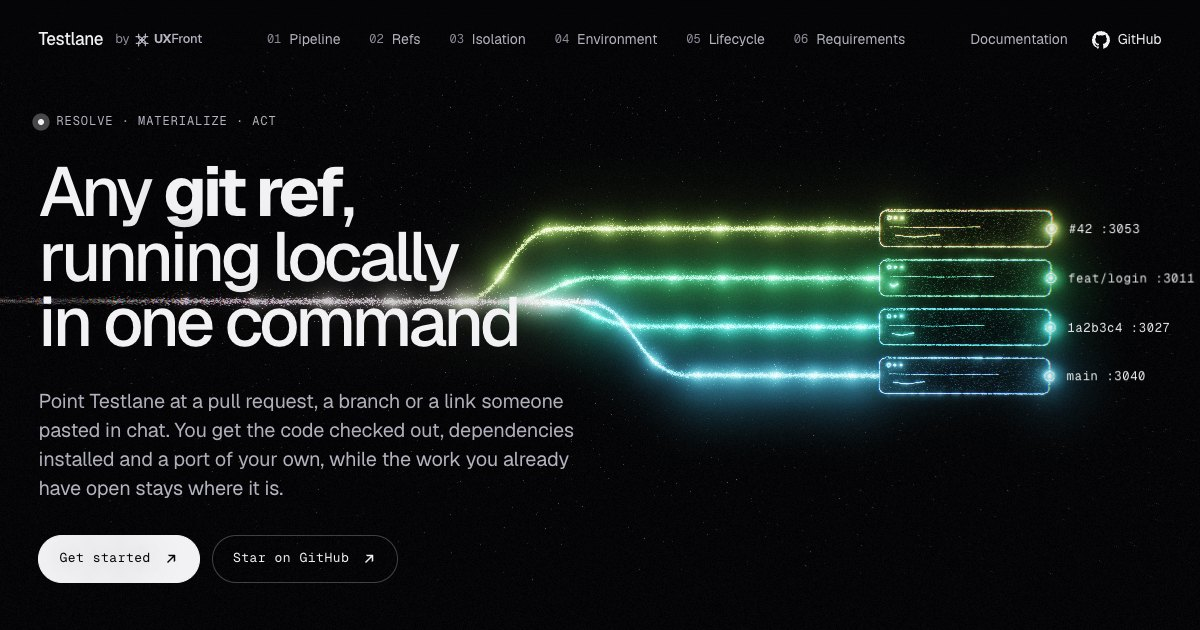
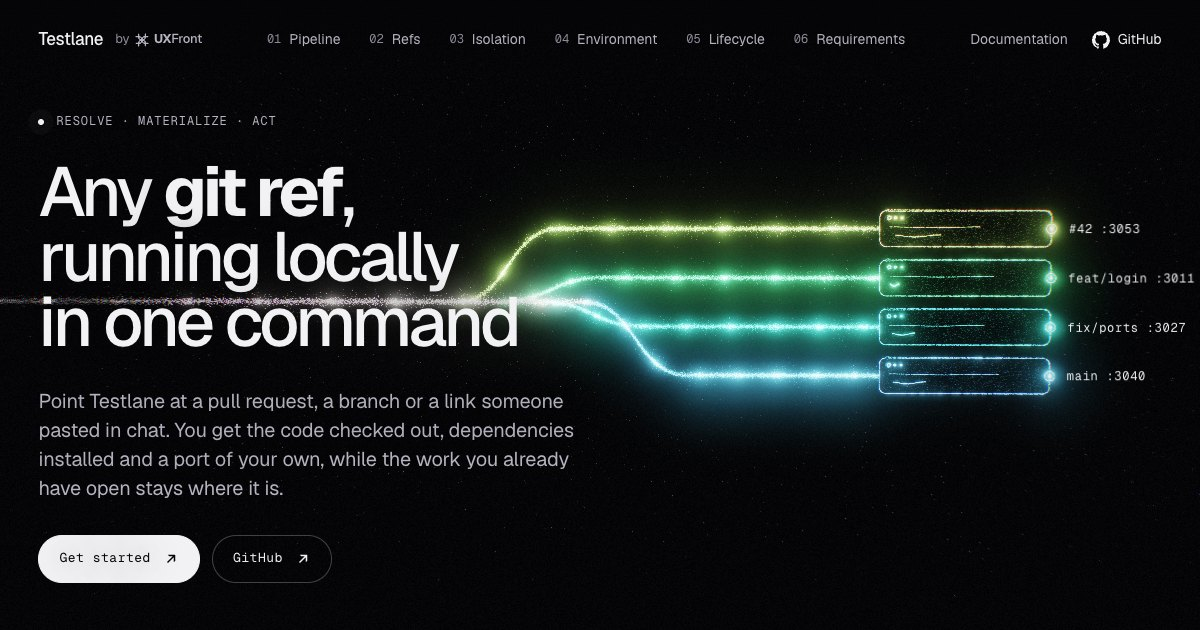
fix(docs): show refs the CLI parses as their comments say
The homepage's refs sample called a short SHA a commit, but testlane
only reads a full 40-character SHA as one and takes 1a2b3c4 for a branch.
The samples now live in app/data/samples.ts, and test/samples.test.ts
runs every ref through the CLI's parseRef and keeps each code line to 30
characters, so the panels don't scroll on a 320px phone.

Held lanes formations kept shrinking while they morphed in, since hold()
fixes local but not approach: lane progress now reads local first. The
Lifecycle chapter dims its lanes instead of brightening them, and the
Requirements chapter puts the stream left of its copy. The README lists
the third Docus override and the sitemap route, and package.json names
the Node 22.13 floor that node:sqlite needs.

diff --git a/apps/docs/app/pages/index.vue b/apps/docs/app/pages/index.vue
@@ -2,9 +2,10 @@
 import { hold } from "@uxfront/scene";
 import { corridor, outline } from "@uxfront/scene/formations";
 
+import { WORKSPACES as workspaces, configCode, refsCode } from "~/data/samples";
 import { DOCS_URL, GITHUB_URL, UXFRONT_URL } from "~/data/site";
 import { lanes } from "~/lib/formations/lanes";
-import { spotlight } from "~/lib/formations/spotlight";
+import { dimmed, spotlight } from "~/lib/formations/spotlight";
 
 useUxHead({
 	title: "Testlane - Run any pull request or branch locally, in one command",
@@ -81,7 +82,8 @@ const isolation = spotlight(
 	{ dim: 0.06 },
 );
 const environment = outline({ key: "environment", label: "Environment" });
-const lifecycle = spotlight(
+// The six details below sit over the lanes: keep them faint.
+const lifecycle = dimmed(
 	hold(
 		lanes({
 			key: "lifecycle",
@@ -98,10 +100,7 @@ const lifecycle = spotlight(
 		}),
 		1,
 	),
-	-20,
-	20,
-	// The six details below sit over the lanes: keep them faint.
-	{ dim: 0.35, soft: 0.4 },
+	0.35,
 );
 const requirements = spotlight(
 	hold(
@@ -113,7 +112,8 @@ const requirements = spotlight(
 					eye: [-3.4, 0.8, 7],
 					target: [-3.6, 0, 0],
 					span: [2.6, 1],
-					shift: [0.3, 0],
+					// Left of the copy, which this chapter puts on the right.
+					shift: [-0.3, 0],
 				},
 				mobile: { eye: [-3, 0.8, 8], target: [-3.2, 0, 0], span: [2.4, 1] },
 			},
@@ -176,14 +176,6 @@ const nav = Object.values(chapters).map((chapter) => ({
 	index: chapter.index,
 }));
 
-// The four refs the lanes stand for, and the port each workspace gets.
-const workspaces = [
-	{ ref: "#42", port: "3053" },
-	{ ref: "feat/login", port: "3011" },
-	{ ref: "1a2b3c4", port: "3027" },
-	{ ref: "main", port: "3040" },
-];
-
 const steps = [
 	{
 		title: "Resolve the ref",
@@ -209,12 +201,6 @@ const refKinds = [
 		text: "A GitHub link already says which project and which pull request. Paste it in and that is the entire command.",
 	},
 ];
-
-const refsCode = `testlane my-project 42            # pull request
-testlane my-project feat/login    # branch
-testlane my-project 1a2b3c4       # commit
-testlane my-project - shell       # last used ref
-testlane …/pull/42 code           # straight from a URL`;
 
 const isolated = [
 	{
@@ -247,17 +233,6 @@ const placeholders = [
 		text: "A dry run prints the exact environment and the exact command, then stops.",
 	},
 ];
-
-const configCode = `ports = 2
-
-[setup]
-run = "pnpm install --frozen-lockfile"
-cache_key = ["pnpm-lock.yaml"]
-seed_files = [".env.local"]
-
-[env]
-PORT = "{port}"
-API_PORT = "{port+1}"`;
 
 const lifespan = [
 	{
@@ -364,7 +339,7 @@ const family = [
 				<br />
 				<span class="hero-actions">
 					<UxPillLink variant="filled" :href="DOCS_URL" label="Get started" />
-					<UxPillLink :href="GITHUB_URL" label="Star on GitHub" />
+					<UxPillLink :href="GITHUB_URL" label="GitHub" />
 				</span>
 			</template>
 		</UxHero>
@@ -384,7 +359,7 @@ const family = [
 			</template>
 			<UxTraits :items="refKinds" />
 			<template #aside>
-				<UxCode title="Six ways to name the same thing" :code="refsCode" />
+				<UxCode title="Five ways to name a ref" :code="refsCode" />
 			</template>
 		</UxSplit>
 

diff --git a/apps/docs/app/data/samples.ts b/apps/docs/app/data/samples.ts
@@ -1,0 +1,64 @@
+/**
+ * The refs and code samples the homepage shows, kept here so
+ * `test/samples.test.ts` can check them. Each ref goes through the CLI's own
+ * parser (`parseRef` in src/core/resolve.ts), since a sample that reads as a
+ * commit but parses as a branch would send a reader who copies it to the wrong
+ * place. And each line has to fit a phone, where the code panel can't scroll
+ * with the keyboard in every browser.
+ */
+export type RefKind = "pr" | "branch" | "commit" | "path" | "last";
+
+export interface RefSample {
+	/** What the reader passes to `testlane`. */
+	ref: string;
+	/** How the sample shows it: the ref itself, or its start and "…". */
+	shown?: string;
+	/** What `parseRef` makes of it. */
+	kind: RefKind;
+	/** Anything after the ref, like a verb. */
+	rest?: string;
+	/** The comment above the command. */
+	comment: string;
+}
+
+/** The Refs chapter's code sample, one comment and command per ref. */
+export const REF_SAMPLES: RefSample[] = [
+	{ ref: "42", kind: "pr", comment: "A pull request" },
+	{ ref: "feat/login", kind: "branch", comment: "A branch" },
+	{
+		ref: "9fceb02d0ae598e95dc970b74767f19372d61af8",
+		shown: "9fceb02…",
+		kind: "commit",
+		comment: "A commit, all 40 characters",
+	},
+	{ ref: "-", kind: "last", rest: "shell", comment: "The ref you used last" },
+];
+
+/** The four workspaces the hero and the Isolation chapter label, top to bottom. */
+export const WORKSPACES: { ref: string; kind: RefKind; port: string }[] = [
+	{ ref: "#42", kind: "pr", port: "3053" },
+	{ ref: "feat/login", kind: "branch", port: "3011" },
+	{ ref: "fix/ports", kind: "branch", port: "3027" },
+	{ ref: "main", kind: "branch", port: "3040" },
+];
+
+/** `REF_SAMPLES` as the sample shows them, plus a link, which names the project too. */
+export const refsCode = [
+	...REF_SAMPLES.map(
+		({ ref, shown, rest, comment }) =>
+			`# ${comment}\ntestlane app ${[shown ?? ref, rest].filter(Boolean).join(" ")}`,
+	),
+	"# Straight from a link\ntestlane …/pull/42 code",
+].join("\n");
+
+/** The Environment chapter's project file. */
+export const configCode = `ports = 2
+
+[setup]
+run = "pnpm install"
+cache_key = ["pnpm-lock.yaml"]
+seed_files = [".env.local"]
+
+[env]
+PORT = "{port}"
+API_PORT = "{port+1}"`;

diff --git a/apps/docs/test/lanes.test.ts b/apps/docs/test/lanes.test.ts
@@ -1,0 +1,48 @@
+import { hold } from "@uxfront/scene";
+import { describe, expect, it } from "vitest";
+import { lanes } from "../app/lib/formations/lanes";
+import {
+	LANES,
+	LANE_APPROACH,
+	laneProgress,
+} from "../app/lib/formations/lanes.geometry";
+
+const approaches = [0, 0.25, 0.5, 0.75, 1];
+
+describe("the lanes formation", () => {
+	it("is its own formation, keyed lanes, with an anchor per workspace", () => {
+		const formation = lanes({ label: "Testlane" });
+		expect(formation.key).toBe("lanes");
+		expect(formation.anchors.map((anchor) => anchor.id)).toEqual(
+			Array.from({ length: LANES }, (_, i) => `lanes:${i}`),
+		);
+	});
+
+	it("grows its lanes while the chapter scrolls in, then while it's read", () => {
+		expect(approaches.map((a) => laneProgress(a, 0))).toEqual(
+			approaches.map((a) => a * LANE_APPROACH),
+		);
+		expect(laneProgress(1, 0)).toBe(LANE_APPROACH);
+		expect(laneProgress(1, 1)).toBe(1);
+	});
+
+	it("keeps a held formation fully grown while it morphs in", () => {
+		for (const approach of approaches) {
+			expect(laneProgress(approach, 1), `approach ${approach}`).toBe(1);
+		}
+	});
+
+	it("shows every workspace's label while a held formation morphs in", () => {
+		const held = hold(lanes({ key: "hero", label: "Testlane" }), 1);
+		const out: [number, number, number] = [0, 0, 0];
+		for (const anchor of held.anchors) {
+			for (const approach of approaches) {
+				const shown = anchor.place(
+					{ stage: 0, local: 1, approach, presence: 1, time: 0 },
+					out,
+				);
+				expect(shown, `${anchor.id} at approach ${approach}`).toBe(1);
+			}
+		}
+	});
+});

diff --git a/apps/docs/test/samples.test.ts b/apps/docs/test/samples.test.ts
@@ -1,0 +1,37 @@
+import { describe, expect, it } from "vitest";
+import { parseRef } from "../../../src/core/resolve";
+import {
+	REF_SAMPLES,
+	WORKSPACES,
+	configCode,
+	refsCode,
+} from "../app/data/samples";
+
+describe("the homepage's samples", () => {
+	it("parses every sample the way its comment says", () => {
+		for (const { ref, kind } of REF_SAMPLES) {
+			expect(parseRef(ref).kind, ref).toBe(kind);
+		}
+	});
+
+	it("shows each sample as itself, or as its start and an ellipsis", () => {
+		for (const { ref, shown } of REF_SAMPLES) {
+			if (shown === undefined) continue;
+			expect(shown.endsWith("…"), shown).toBe(true);
+			expect(ref.startsWith(shown.slice(0, -1)), shown).toBe(true);
+		}
+	});
+
+	it("labels the workspaces with refs that parse as what they stand for", () => {
+		for (const { ref, kind } of WORKSPACES) {
+			expect(parseRef(ref).kind, ref).toBe(kind);
+		}
+	});
+
+	it("fits every line of the code samples on a 320px phone", () => {
+		// UxCode's panel holds about 30 characters of Geist Mono at that width.
+		for (const line of [...refsCode.split("\n"), ...configCode.split("\n")]) {
+			expect(line.length, line).toBeLessThanOrEqual(30);
+		}
+	});
+});

diff --git a/apps/docs/app/lib/formations/lanes.geometry.ts b/apps/docs/app/lib/formations/lanes.geometry.ts
@@ -40,9 +40,15 @@ export const LANE_COLORS: Vec3[] = [
 /** Share of the lanes' growth that happens while the chapter scrolls in. */
 export const LANE_APPROACH = 0.35;
 
-/** Lane progress: starts with the morph into the formation, not once it's held. */
+/**
+ * Lane progress: starts with the morph into the formation, not once it's held.
+ * It reads `local` first, since `hold()` fixes `local` but not `approach`: a
+ * held formation would otherwise shrink its lanes while it morphs in. Without
+ * `hold()`, `local` is 0 until `approach` reaches 1, so the two meet at
+ * `LANE_APPROACH`.
+ */
 export const laneProgress = (approach: number, local: number) =>
-	approach < 1 ? approach * LANE_APPROACH : lerp(LANE_APPROACH, 1, local);
+	local > 0 ? lerp(LANE_APPROACH, 1, local) : approach * LANE_APPROACH;
 
 /** Lanes branch off one after another as the chapter is read: 0 → 1 each. */
 export const laneReach = (index: number, progress: number) =>

diff --git a/apps/docs/app/lib/formations/lanes.shader.ts b/apps/docs/app/lib/formations/lanes.shader.ts
@@ -29,10 +29,11 @@ const float $BOX_X1 = ${f(BOX_X1)};
 const float $BOX_HH = ${f(BOX_HH)};
 const vec3 $COLORS[4] = ${glslArray("vec3", LANE_COLORS.map(glslVec))};
 
-// Lanes start growing as the chapter scrolls in (see laneProgress).
+// Lanes start growing as the chapter scrolls in, and a held formation keeps
+// its progress while it morphs in (see laneProgress).
 float $progress(Frame f) {
-  if (f.approach < 1.0) return f.approach * ${f(LANE_APPROACH)};
-  return mix(${f(LANE_APPROACH)}, 1.0, f.local);
+  if (f.local > 0.0) return mix(${f(LANE_APPROACH)}, 1.0, f.local);
+  return f.approach * ${f(LANE_APPROACH)};
 }
 
 float $branchX(int i) { return $BRANCH_X0 + float(i) * $BRANCH_DX; }

diff --git a/apps/docs/app/lib/formations/spotlight.ts b/apps/docs/app/lib/formations/spotlight.ts
@@ -24,3 +24,17 @@ export function spotlight(
   return P;`,
 	);
 }
+
+/**
+ * Dims the whole formation to `factor` of its brightness, for a chapter whose
+ * copy sits over it.
+ */
+export function dimmed(formation: Formation, factor: number): Formation {
+	return wrapMain(
+		formation,
+		"undimmed",
+		`  Particle P = $undimmed(id, sel, f);
+  P.col *= ${glslFloat(factor)};
+  return P;`,
+	);
+}

diff --git a/apps/docs/README.md b/apps/docs/README.md
@@ -9,7 +9,7 @@ Run them from the repository root, since the site shares its lockfile with the w
 ```bash
 pnpm install --filter @uxfront/docs
 pnpm --filter @uxfront/docs dev         # dev server on http://localhost:3000
-pnpm --filter @uxfront/docs test        # the redirect map against content/docs
+pnpm --filter @uxfront/docs test        # the redirects, the homepage's samples and the lanes formation
 pnpm --filter @uxfront/docs build       # nuxt build → .output, every page prerendered into .output/public
 pnpm --filter @uxfront/docs lighthouse  # Lighthouse CI against .output/public, fails below 0.95 in any category
 ```
@@ -45,6 +45,8 @@ Everything else comes from the homepage kit:
 - [`@uxfront/ui`](https://www.npmjs.com/package/@uxfront/ui): the Vue components (`UxSite`, `UxHero`, `UxChapter`, `UxSplit`, `UxFinale`, the HUD, the header and the labels pinned to the formations) and the design tokens.
 - [`@uxfront/scene`](https://www.npmjs.com/package/@uxfront/scene): the WebGL particle scene and the `outline` and `corridor` formations. Without WebGL2, the page shows the scene's fallback with all of its copy.
 
+The refs, the project file and the workspace labels the page shows live in `app/data/samples.ts`. `test/samples.test.ts` parses every ref with the CLI's own `parseRef`, so a sample can't promise what `testlane` doesn't do, like a short SHA read as a commit. It also keeps each line of the code samples to 30 characters, which fit the code panel on a 320px phone.
+
 `public/og.jpg` is a 1200 × 630 capture of the hero, with the HUD and the scroll cue hidden. Capture it again when the hero changes. The favicons in `public/` draw the same lanes.
 
 ## The docs
@@ -59,16 +61,17 @@ How it shares the app with the homepage:
 - `app/app.config.ts` sets the theme colours and the GitHub, "Edit this page" and "Report an issue" links, with `rootDir: "apps/docs"`, since the docs don't live at the repository root.
 - Docus reads the site URL from `NUXT_SITE_URL`, which `nuxt.config.ts` defaults to the production origin.
 - Docus's MCP server is off (`mcp.enabled` in `nuxt.config.ts`), and so is its AI assistant, which only starts with an `AI_GATEWAY_API_KEY`.
+- `server/routes/sitemap.xml.ts` replaces Docus's `/sitemap.xml` route, as on unframework.dev. Docus's lists a landing page from `content/index.md`, which this site doesn't have, so it left the homepage out. This one lists `/` first, then the docs pages.
 - In content, link to the generated files (`/llms.txt`, `/raw/…`) with `{external}`. Otherwise the router handles the click and shows the 404 page.
 
 ### Keeping it accessible
 
-Every page passes axe's contrast rule in light and dark mode, and the homepage and the docs pages we've measured score 1 in Lighthouse accessibility. Docus doesn't as it ships, so the site changes four things:
+Every page passes axe's contrast rule in light and dark mode, and the homepage and the docs pages we've measured score 1 in Lighthouse accessibility. Docus doesn't as it ships, so the site changes these:
 
 - **Colours.** `app/app.css` darkens Nuxt UI's light-mode primary to the 700 shade, since green's default 500 fails AA contrast on white. `ui.prose.callout` in `app/app.config.ts` draws the callouts' text, links and inline code (`::note`, `::tip`, `::warning`, `::caution`) in the 800 shade in light mode, since Nuxt UI's 600 fails on their tinted background, `::warning`'s yellow worst at 2.75:1.
 - **Links.** `ui.prose.a` underlines links at rest, so a link in a sentence doesn't stand out by colour alone.
 - **Code.** `nuxt.config.ts` highlights code with the high-contrast GitHub themes, since the default themes put comments below 4.5:1.
-- **Two Docus components.** `app/components/docs/DocsPageHeaderLinks.vue` names the button that opens the page menu, which only shows an arrow, and leaves out the menu's MCP items. `app/pages/[[lang]]/[...slug].vue` makes the separator above "Edit this page" decorative, since a separator can't hold links. Both are copies of Docus 5.13.0's, so keep them in step when you upgrade it.
+- **Three Docus components.** `app/components/docs/DocsPageHeaderLinks.vue` names the button that opens the page menu, which only shows an arrow, and leaves out the menu's MCP items. `app/components/IconMenuToggle.vue` names the button that opens the header's menu on phones, and says whether it's open. `app/pages/[[lang]]/[...slug].vue` makes the separator above "Edit this page" decorative, since a separator can't hold links. The first and last are copies of Docus 5.13.0's, and the toggle draws the same lines, so keep all three in step when you upgrade Docus.
 
 ### Old URLs
 
@@ -83,3 +86,5 @@ The site runs as a Nitro server (`node .output/server/index.mjs`), which serves 
 - `vercel.json`, for Vercel, with `apps/docs` as the root directory.
 
 The prerenderer needs more memory than Node's default, so the builds set `NODE_OPTIONS=--max-old-space-size=4096`.
+
+The server needs Node 22.13 or newer, both to build and to run: Docus reads its content with Node's built-in `node:sqlite`, which older versions don't have or keep behind a flag. `engines` in `package.json` says so, which Nixpacks and Vercel read to pick their Node version, and the `Dockerfile` uses `node:22-slim`, which is newer.
